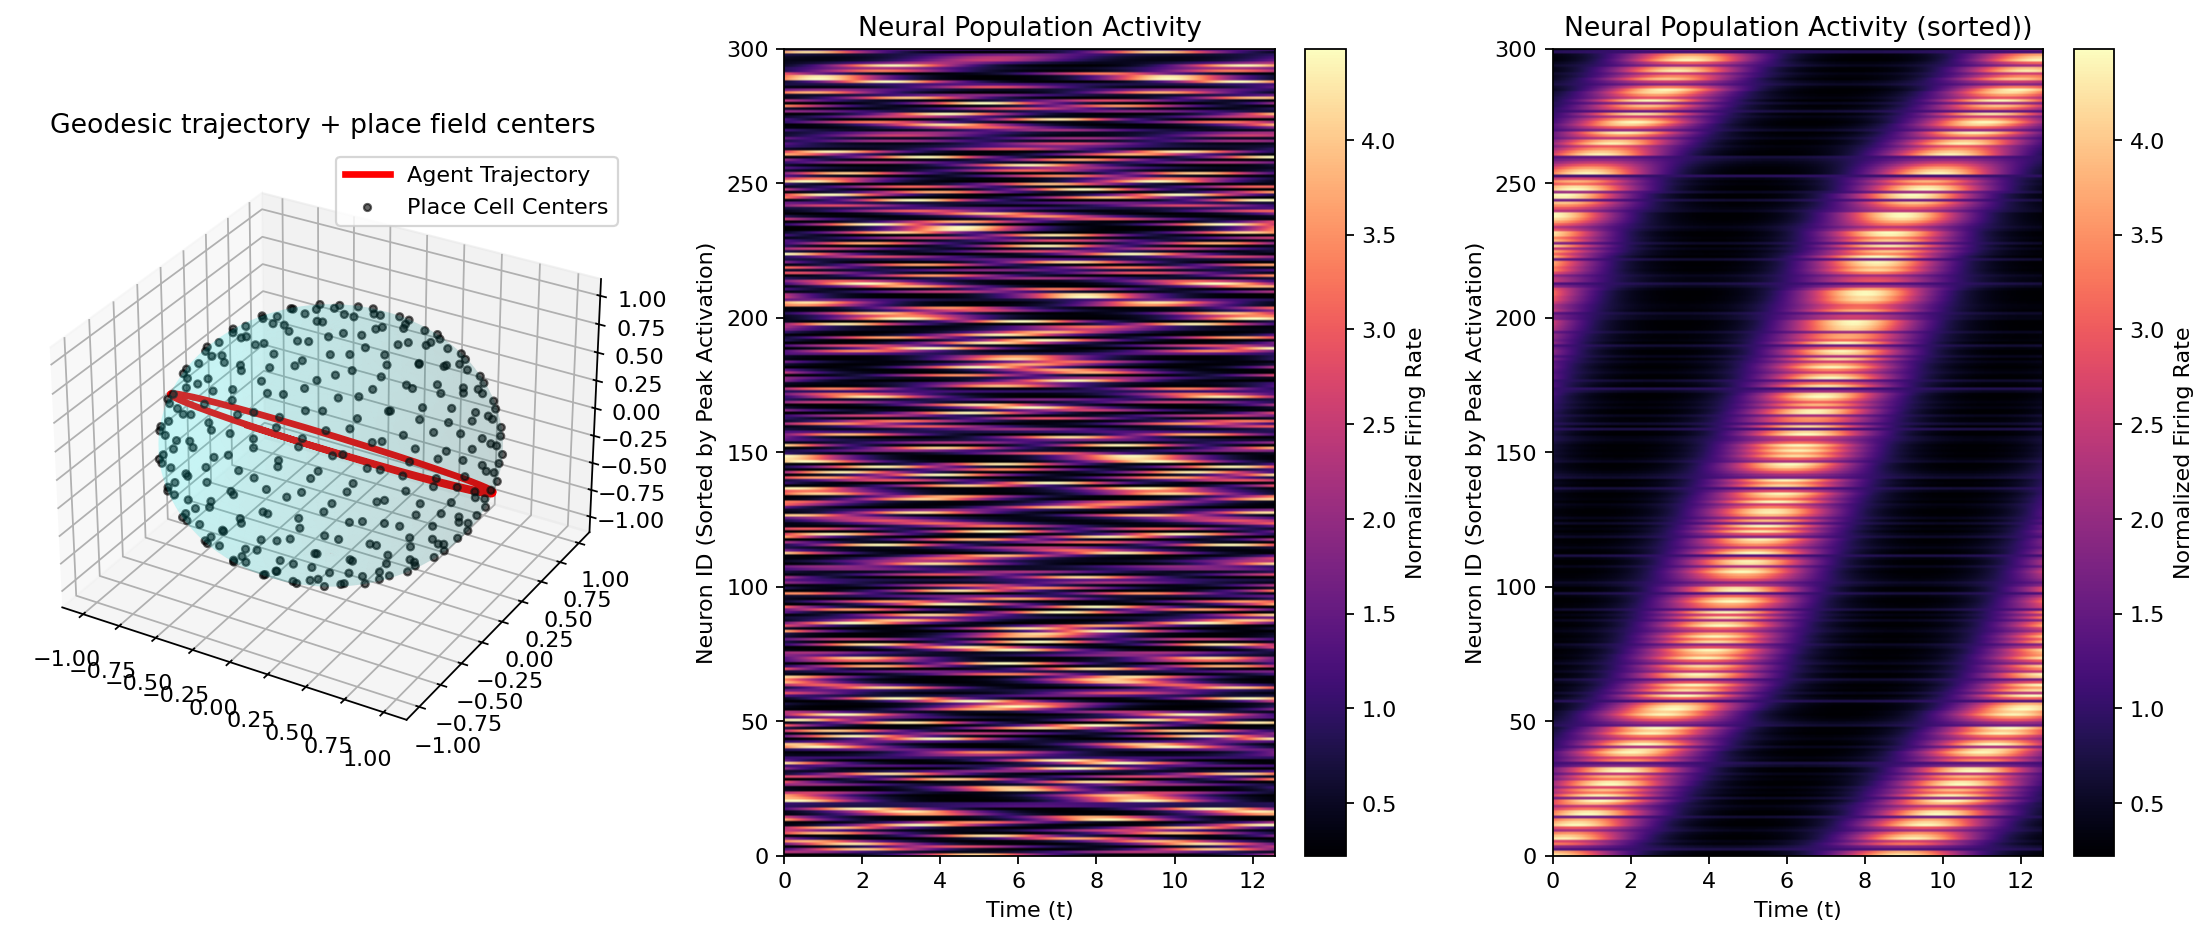
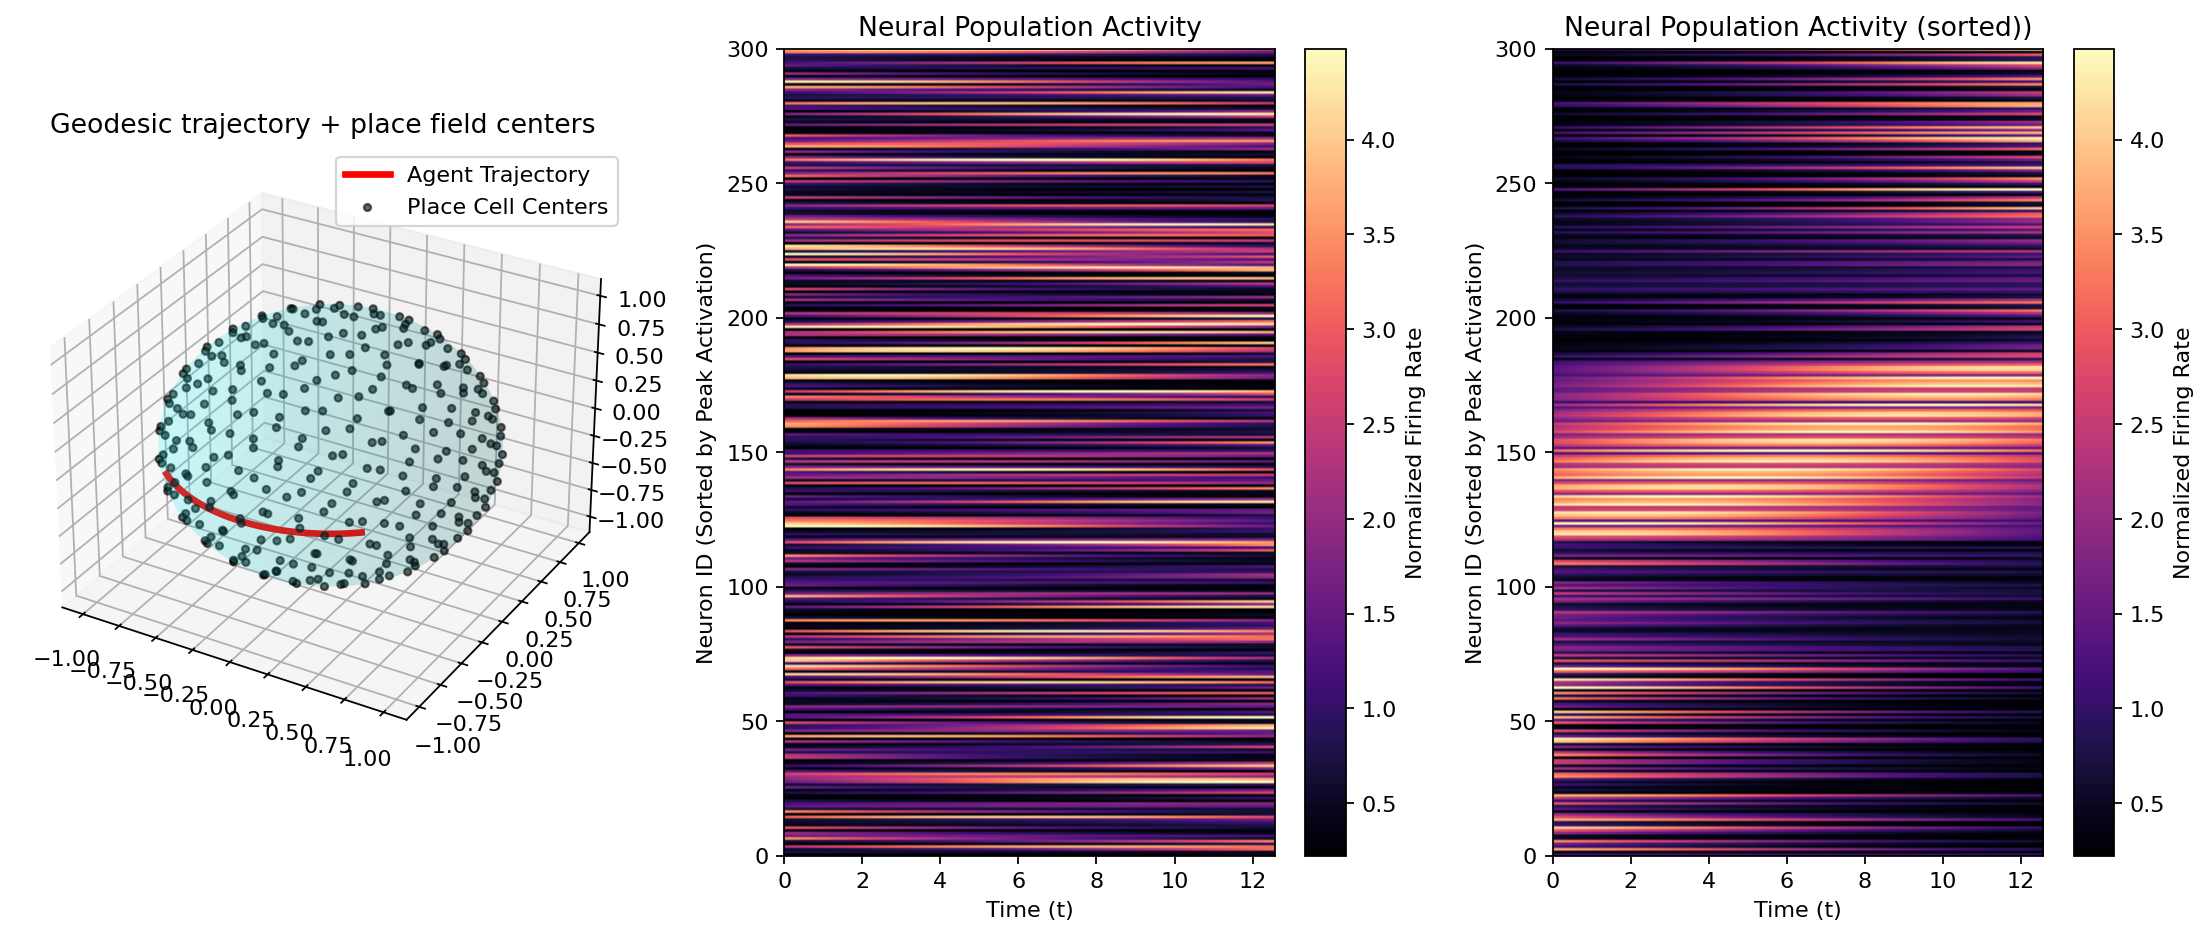
updated to correctly correct direction for horizontal tajectories

diff --git a/sandbox/Geodesic_dynamics/fit_sphere_trials.py b/sandbox/Geodesic_dynamics/fit_sphere_trials.py
@@ -12,12 +12,20 @@ from pathlib import Path
 import matplotlib
 matplotlib.use("Agg")
 import matplotlib.pyplot as plt
+from matplotlib.lines import Line2D
 import numpy as np
 from scipy.integrate import solve_ivp
 import torch
 from torch.utils.data import DataLoader, random_split
 import torch.nn as nn
 import torch.optim as optim
+
+TRUE_COLOR = "#12355B"
+RECON_COLOR = "#FF5A1F"
+SPHERE_COLOR = "#8E8E8E"
+WIREFRAME_COLOR = "#5F5F5F"
+TRUE_LINEWIDTH = 3.4
+RECON_LINEWIDTH = 3.4
 
 def spherical_geodesic(t, y):
     """
@@ -42,9 +50,9 @@ def random_initial_condition(speed=2**-0.5):
     # theta = random.uniform(0.25 * np.pi, 0.75 * np.pi)
     theta = np.pi / 2 # to test only coordinates at the equator
     phi = random.uniform(0.0, 2.0 * np.pi)
-    direction = 0.0 # to test only horizontal trajectories
-    # direction = random.uniform(0.0, 2.0 * np.pi)
-    dtheta = speed * np.cos(direction)
+    direction = random.uniform(0.0, 2.0 * np.pi)
+    dtheta = 0.0
+    #dtheta = speed * np.cos(direction)
     dphi = speed * np.sin(direction) / max(np.sin(theta), 1e-3)
     return [theta, phi, dtheta, dphi]
 
@@ -669,6 +677,138 @@ def plot_latents(true_z, geo_z, free_z):
     plt.close(fig)
 
 
+def theta_phi_to_xyz(theta_phi):
+    theta = theta_phi[..., 0]
+    phi = theta_phi[..., 1]
+    return np.stack(
+        [
+            np.sin(theta) * np.cos(phi),
+            np.sin(theta) * np.sin(phi),
+            np.cos(theta),
+        ],
+        axis=-1,
+    )
+
+
+def centers_to_xyz(theta_centers_np, phi_centers_np):
+    return np.stack(
+        [
+            np.sin(theta_centers_np) * np.cos(phi_centers_np),
+            np.sin(theta_centers_np) * np.sin(phi_centers_np),
+            np.cos(theta_centers_np),
+        ],
+        axis=1,
+    )
+
+
+def rates_to_sphere_xyz(rates, theta_centers_np, phi_centers_np):
+    """Decode neural activity to a point on the unit sphere by population vector."""
+    centers_xyz = centers_to_xyz(theta_centers_np, phi_centers_np)
+    flat_rates = np.clip(rates.reshape(-1, rates.shape[-1]).astype(np.float64), 0.0, None)
+    xyz = flat_rates @ centers_xyz
+    norm = np.linalg.norm(xyz, axis=1, keepdims=True)
+    xyz = xyz / np.maximum(norm, 1e-12)
+    return xyz.reshape(*rates.shape[:-1], 3)
+
+
+def draw_sphere(ax):
+    u = np.linspace(0, 2 * np.pi, 96)
+    v = np.linspace(0, np.pi, 48)
+    xs = np.outer(np.cos(u), np.sin(v))
+    ys = np.outer(np.sin(u), np.sin(v))
+    zs = np.outer(np.ones_like(u), np.cos(v))
+    ax.plot_surface(xs, ys, zs, color=SPHERE_COLOR, alpha=0.26, linewidth=0, shade=False)
+    ax.plot_wireframe(xs, ys, zs, color=WIREFRAME_COLOR, alpha=0.12, linewidth=0.45, rstride=5, cstride=5)
+    ax.set_xlabel("x")
+    ax.set_ylabel("y")
+    ax.set_zlabel("z")
+    ax.set_box_aspect([1, 1, 1])
+    ax.set_xlim(-1.05, 1.05)
+    ax.set_ylim(-1.05, 1.05)
+    ax.set_zlim(-1.05, 1.05)
+    ax.view_init(elev=24, azim=38)
+
+
+def draw_prediction_paths(ax, true_theta_phi, pred_rates, theta_centers_np, phi_centers_np, max_trials):
+    true_xyz = theta_phi_to_xyz(true_theta_phi)
+    pred_xyz = rates_to_sphere_xyz(pred_rates, theta_centers_np, phi_centers_np)
+    n_trials = min(true_xyz.shape[0], pred_xyz.shape[0], max_trials)
+    for trial_idx in range(n_trials):
+        n_time = min(true_xyz[trial_idx].shape[0], pred_xyz[trial_idx].shape[0])
+        step = max(1, n_time // 260)
+        ax.plot(
+            true_xyz[trial_idx, :n_time:step, 0],
+            true_xyz[trial_idx, :n_time:step, 1],
+            true_xyz[trial_idx, :n_time:step, 2],
+            color=TRUE_COLOR,
+            lw=TRUE_LINEWIDTH,
+            alpha=0.88,
+        )
+        ax.plot(
+            pred_xyz[trial_idx, :n_time:step, 0],
+            pred_xyz[trial_idx, :n_time:step, 1],
+            pred_xyz[trial_idx, :n_time:step, 2],
+            color=RECON_COLOR,
+            lw=RECON_LINEWIDTH,
+            alpha=0.98,
+        )
+
+
+def plot_sphere_prediction_overlay(true_theta_phi, pred_rates, theta_centers_np, phi_centers_np, out_path, title, max_trials=12):
+    if true_theta_phi.shape[0] == 0 or pred_rates.shape[0] == 0:
+        return
+    fig = plt.figure(figsize=(10.5, 8.5))
+    ax = fig.add_subplot(111, projection="3d")
+    draw_sphere(ax)
+    draw_prediction_paths(ax, true_theta_phi, pred_rates, theta_centers_np, phi_centers_np, max_trials)
+    ax.set_title(title, pad=18)
+    ax.legend(
+        handles=[
+            Line2D([0], [0], color=TRUE_COLOR, lw=TRUE_LINEWIDTH, label="true path"),
+            Line2D([0], [0], color=RECON_COLOR, lw=RECON_LINEWIDTH, label="predicted path"),
+        ],
+        loc="upper left",
+        bbox_to_anchor=(0.02, 0.98),
+    )
+    fig.savefig(out_path, dpi=180, bbox_inches="tight")
+    plt.close(fig)
+
+
+def plot_sphere_prediction_comparison(
+    true_theta_phi,
+    rates_geo_pred_np,
+    rates_free_pred_np,
+    theta_centers_np,
+    phi_centers_np,
+    out_path,
+    split_label,
+    max_trials=12,
+):
+    if true_theta_phi.shape[0] == 0:
+        return
+    fig = plt.figure(figsize=(15, 7.5))
+    panels = [
+        ("Geodesic prediction", rates_geo_pred_np),
+        ("Free prediction", rates_free_pred_np),
+    ]
+    for panel_idx, (title, pred_rates) in enumerate(panels, start=1):
+        ax = fig.add_subplot(1, 2, panel_idx, projection="3d")
+        draw_sphere(ax)
+        draw_prediction_paths(ax, true_theta_phi, pred_rates, theta_centers_np, phi_centers_np, max_trials)
+        ax.set_title(f"{title} ({split_label})", pad=16)
+    fig.legend(
+        handles=[
+            Line2D([0], [0], color=TRUE_COLOR, lw=TRUE_LINEWIDTH, label="true path"),
+            Line2D([0], [0], color=RECON_COLOR, lw=RECON_LINEWIDTH, label="predicted path"),
+        ],
+        loc="upper center",
+        ncol=2,
+        bbox_to_anchor=(0.5, 0.98),
+    )
+    fig.savefig(out_path, dpi=180, bbox_inches="tight")
+    plt.close(fig)
+
+
 # Parameters
 latent_dim = int(os.environ.get("SPHERE_LATENT_DIM", "2"))
 n_timepoints = len(t_eval)
@@ -696,6 +836,8 @@ rates_geo_pred, latents_geo = predict_all(model_geo, train_dataset, t_eval)
 rates_free_pred, latents_free = predict_all(model_free, train_dataset, t_eval)
 train_rates = rates_numpy(train_dataset)
 heldout_rates = rates_numpy(heldout_dataset)
+train_trial_indices = np.asarray([trial["idx"] for trial in train_dataset], dtype=np.int64)
+heldout_trial_indices = np.asarray([trial["idx"] for trial in heldout_dataset], dtype=np.int64)
 r_geo, r2_geo = corr_and_r2(train_rates, rates_geo_pred)
 r_free, r2_free = corr_and_r2(train_rates, rates_free_pred)
 
@@ -745,6 +887,66 @@ print(f"Preferred Model by BIC: {best_bic}")
 
 plot_model_heatmap(train_rates, rates_geo_pred, rates_free_pred, dataset_idx=0, num_neurons=50)
 plot_latents(true_latents, latents_geo, latents_free)
+overlay_max_trials = int(os.environ.get("SPHERE_OVERLAY_MAX_TRIALS", "12"))
+train_true_latents = true_latents[train_trial_indices]
+plot_sphere_prediction_overlay(
+    train_true_latents,
+    rates_geo_pred,
+    theta_centers,
+    phi_centers,
+    out_dir / "sphere_reconstruction_3d_overlay_geodesic.png",
+    "True vs Predicted Sphere Trajectories (geodesic)",
+    max_trials=overlay_max_trials,
+)
+plot_sphere_prediction_overlay(
+    train_true_latents,
+    rates_free_pred,
+    theta_centers,
+    phi_centers,
+    out_dir / "sphere_reconstruction_3d_overlay_free.png",
+    "True vs Predicted Sphere Trajectories (free)",
+    max_trials=overlay_max_trials,
+)
+plot_sphere_prediction_comparison(
+    train_true_latents,
+    rates_geo_pred,
+    rates_free_pred,
+    theta_centers,
+    phi_centers,
+    out_dir / "sphere_reconstruction_3d_overlay_all.png",
+    "train",
+    max_trials=overlay_max_trials,
+)
+if len(heldout_dataset) > 0:
+    heldout_true_latents = true_latents[heldout_trial_indices]
+    plot_sphere_prediction_overlay(
+        heldout_true_latents,
+        rates_geo_heldout,
+        theta_centers,
+        phi_centers,
+        out_dir / "sphere_heldout_reconstruction_3d_overlay_geodesic.png",
+        "True vs Predicted Sphere Trajectories (heldout geodesic)",
+        max_trials=overlay_max_trials,
+    )
+    plot_sphere_prediction_overlay(
+        heldout_true_latents,
+        rates_free_heldout,
+        theta_centers,
+        phi_centers,
+        out_dir / "sphere_heldout_reconstruction_3d_overlay_free.png",
+        "True vs Predicted Sphere Trajectories (heldout free)",
+        max_trials=overlay_max_trials,
+    )
+    plot_sphere_prediction_comparison(
+        heldout_true_latents,
+        rates_geo_heldout,
+        rates_free_heldout,
+        theta_centers,
+        phi_centers,
+        out_dir / "sphere_heldout_reconstruction_3d_overlay_all.png",
+        "heldout",
+        max_trials=overlay_max_trials,
+    )
 
 summary = {
     "config": {
@@ -799,12 +1001,24 @@ summary = {
 np.savez_compressed(
     out_dir / "fit_outputs.npz",
     activities=activities.astype(np.float32),
+    train_rates=train_rates.astype(np.float32),
+    heldout_rates=heldout_rates.astype(np.float32),
+    train_trial_indices=train_trial_indices,
+    heldout_trial_indices=heldout_trial_indices,
     rates_geo_pred=rates_geo_pred.astype(np.float32),
     rates_free_pred=rates_free_pred.astype(np.float32),
+    rates_geo_heldout=rates_geo_heldout.astype(np.float32),
+    rates_free_heldout=rates_free_heldout.astype(np.float32),
     true_latents=true_latents.astype(np.float32),
     latents_geo=latents_geo.astype(np.float32),
     latents_free=latents_free.astype(np.float32),
+    latents_geo_heldout=latents_geo_heldout.astype(np.float32),
+    latents_free_heldout=latents_free_heldout.astype(np.float32),
+    theta_centers=theta_centers.astype(np.float32),
+    phi_centers=phi_centers.astype(np.float32),
     loss_geo=np.asarray(loss_geo, dtype=np.float32),
     loss_free=np.asarray(loss_free, dtype=np.float32),
+    heldout_loss_geo=np.asarray(heldout_loss_geo, dtype=np.float32),
+    heldout_loss_free=np.asarray(heldout_loss_free, dtype=np.float32),
 )
 print(f"Saved outputs to {out_dir}")
